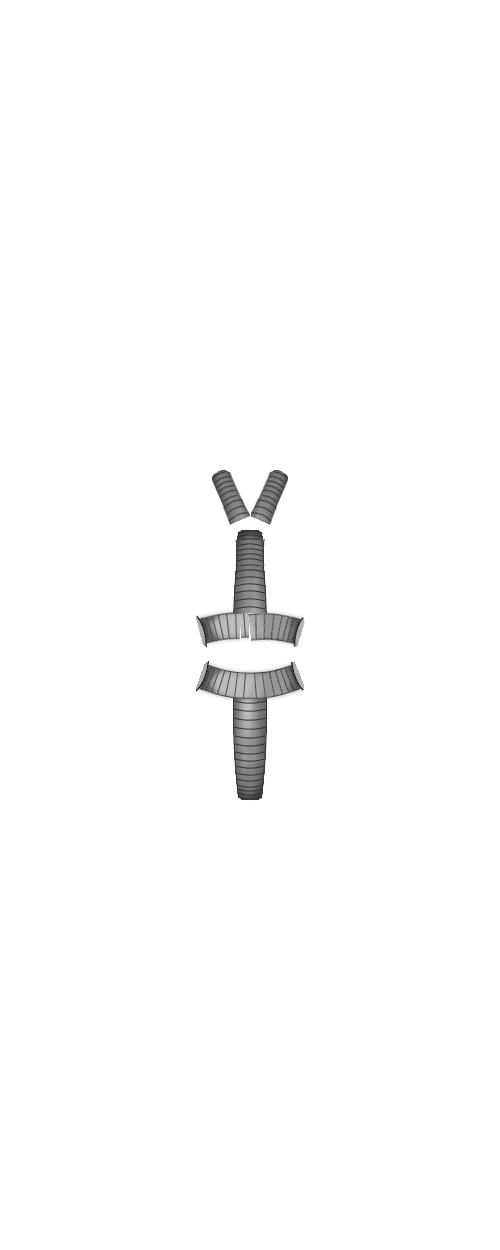
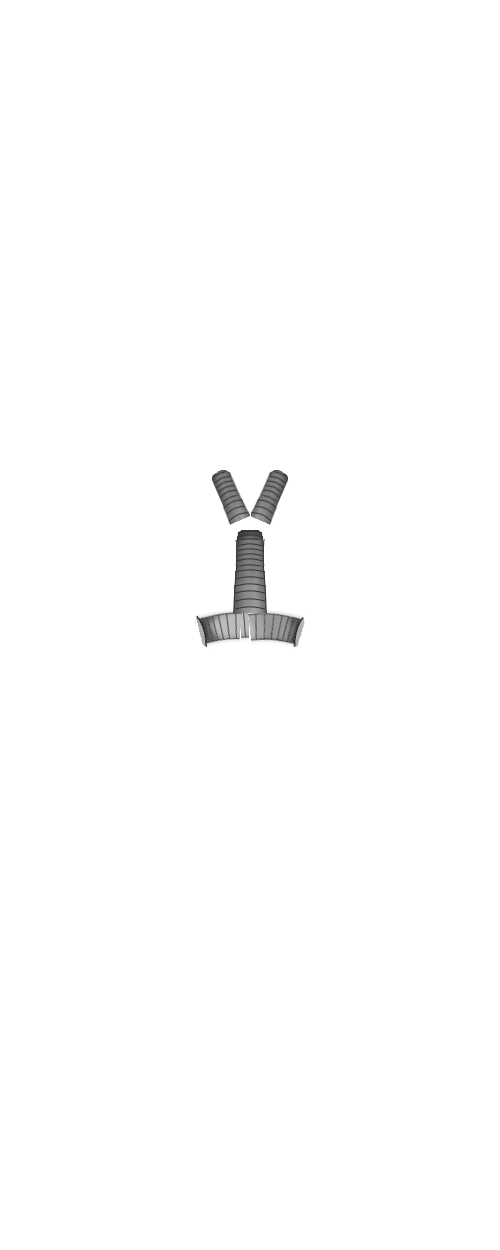
Added the harness too

Changed region(s): [[0.39, 0.5304, 0.6, 0.6552]]

diff --git a/BondageClub/Assets/Female3DCG/Female3DCG.js b/BondageClub/Assets/Female3DCG/Female3DCG.js
@@ -2287,6 +2287,12 @@ var AssetFemale3DCG = [
 					{ Name: "Lock2", LockLayer: true, CopyLayerColor: "Lock", ParentGroup: null, AllowTypes: ["", "Upper"], HasType: false},
 				]
 			},
+			{ Name: "HighSecurityHarness", Fetish: ["Metal"], Value: 50, Difficulty: 50, Time: 20, RemoveTime: 15, DefaultColor: ["#444444", "Default"], Effect: [], AllowLock: true, DrawLocks: false, Prerequisite: "AccessTorso", HideForPose: ["AllFours"], Extended: true,
+				Layer:[
+					{ Name: "StrapsHarness", AllowColorize: true, ParentGroup: null, Priority: 15 , HasType: true},
+					{ Name: "ClampsHarness", AllowColorize: true, ParentGroup: null, Priority: 15, HasType: true},
+				]
+			},
 			{ Name: "Corset3", Fetish: ["Lingerie"], Priority: 22, Value: 25, Difficulty: 8, Time: 15, RemoveTime: 10, AllowLock: true, Left: 150, BuyGroup: "Corset3", Prerequisite: "AccessTorso", Hide: ["ItemNipples", "ItemNipplesPiercings"], HideForPose: ["AllFours"], DynamicGroupName: "Corset" },
 			{ Name: "Corset4", Fetish: ["Lingerie"], Priority: 22, Value: 15, Difficulty: 8, Time: 15, RemoveTime: 10, AllowLock: true, Left: 150, BuyGroup: "Corset4", Prerequisite: "AccessTorso", Expose: ["ItemNipples", "ItemBreast", "ItemNipplesPiercings"], HideForPose: ["Hogtied", "AllFours"], DynamicGroupName: "Corset" },
 			{ Name: "Corset5", Fetish: ["Lingerie"], Priority: 22, Value: 20, Difficulty: 8, Time: 15, RemoveTime: 10, AllowLock: true, Left: 150, BuyGroup: "Corset5", Prerequisite: "AccessTorso", Expose: ["ItemNipples", "ItemBreast", "ItemNipplesPiercings"], HideForPose: ["Hogtied", "AllFours"], DynamicGroupName: "Corset" },
@@ -4780,8 +4786,8 @@ var AssetFemale3DCG = [
 				Layer: [
 					{ Name: "Body", ColorGroup: "Padding", Priority: 1, HasType: false},
 					{ Name: "StrapsArms", ColorGroup: "Structure", Priority: 40, HasType: false, AllowModuleTypes:["a3"]},
-					{ Name: "StrapsHarness", ColorGroup: "Harness", Priority: 25, HasType: false, ModuleType: ["h"], AllowModuleTypes:["h1", "h2", "h3"]},
-					{ Name: "ClampsHarness", ColorGroup: "Harness", Priority: 25, HasType: false, ModuleType: ["h"], AllowModuleTypes:["h1", "h2", "h3"]},
+					{ Name: "StrapsHarness", ColorGroup: "Harness", Priority: 25, HasType: false, ModuleType: ["h"], AllowModuleTypes:["h1", "h2", "h3", "h4"]},
+					{ Name: "ClampsHarness", ColorGroup: "Harness", Priority: 25, HasType: false, ModuleType: ["h"], AllowModuleTypes:["h1", "h2", "h3", "h4"]},
 					{ Name: "DevicePleasure", ColorGroup: "Pleasure", Priority: 25, HasType: false, AllowModuleTypes:["d1"]},
 					{ Name: "DevicePleasurePlug", ColorGroup: "Pleasure", Priority: 25, HasType: false, AllowModuleTypes:["d1"]},
 					{ Name: "DevicePleasureHolder", ColorGroup: "Pleasure", Priority: 25, HasType: false, AllowModuleTypes:["d1"]},

diff --git a/BondageClub/Assets/Female3DCG/Female3DCGExtended.js b/BondageClub/Assets/Female3DCG/Female3DCGExtended.js
@@ -1930,14 +1930,21 @@ var AssetFemale3DCGExtended = {
 									OverrideHeight: { Height: 0, Priority: 60 },
 								},
 							},
-							{ // h1 - Comprehensive
+							{ // h2 - Comprehensive
 								Property: {
 									Difficulty: 18,
 									Effect: ["Prone", "Freeze"],
 									OverrideHeight: { Height: 0, Priority: 60 },
 								},
 							},
-							{ // h2 - High Security
+							{ // h3 - Comprehensive (breast)
+								Property: {
+									Difficulty: 18,
+									Effect: ["Prone", "Freeze"],
+									OverrideHeight: { Height: 0, Priority: 60 },
+								},
+							},
+							{ // h4 - High Security
 								Property: {
 									Difficulty: 24,
 									Effect: ["Prone", "Freeze"],
@@ -2848,6 +2855,28 @@ var AssetFemale3DCGExtended = {
 				},
 			}
 		}, // Ribbons
+		HighSecurityHarness: {
+			Archetype: ExtendedArchetype.TYPED,
+			Config: {
+				Options: [
+					{
+						Name: "LowSec",
+						Property: { Type: null }
+					}, {
+						Name: "MedSec",
+						Property: { Type: "h2" , Difficulty: 5 , Effect: ["CrotchRope"]}
+					}, {
+						Name: "MaxSec",
+						Property: { Type: "h3" , Difficulty: 10, Effect: ["CrotchRope"] }
+					}
+				],
+				Dialog: {
+					Load: "FuturisticHarnessType",
+					TypePrefix: "FuturisticHarnessType",
+					ChatPrefix: "FuturisticHarnessSet",
+				},
+			}
+		}, // HighSecurityHarness
 		LatexCorset1: {
 			Archetype: ExtendedArchetype.TYPED,
 			CopyConfig: { GroupName: "Corset", AssetName: "LatexCorset1" },
